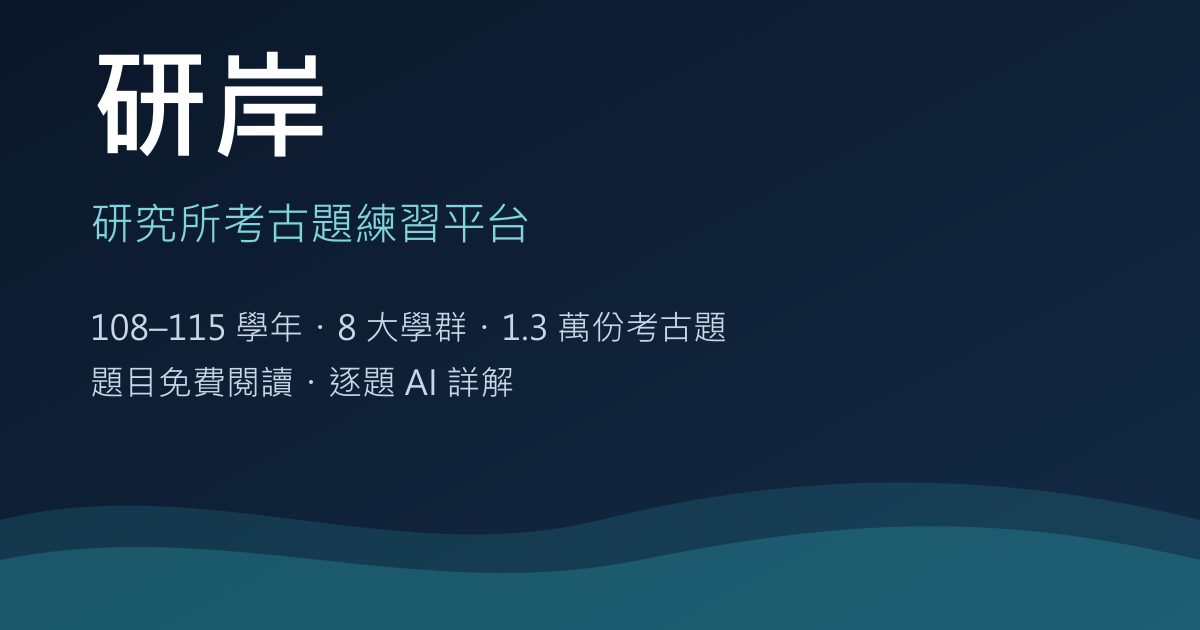
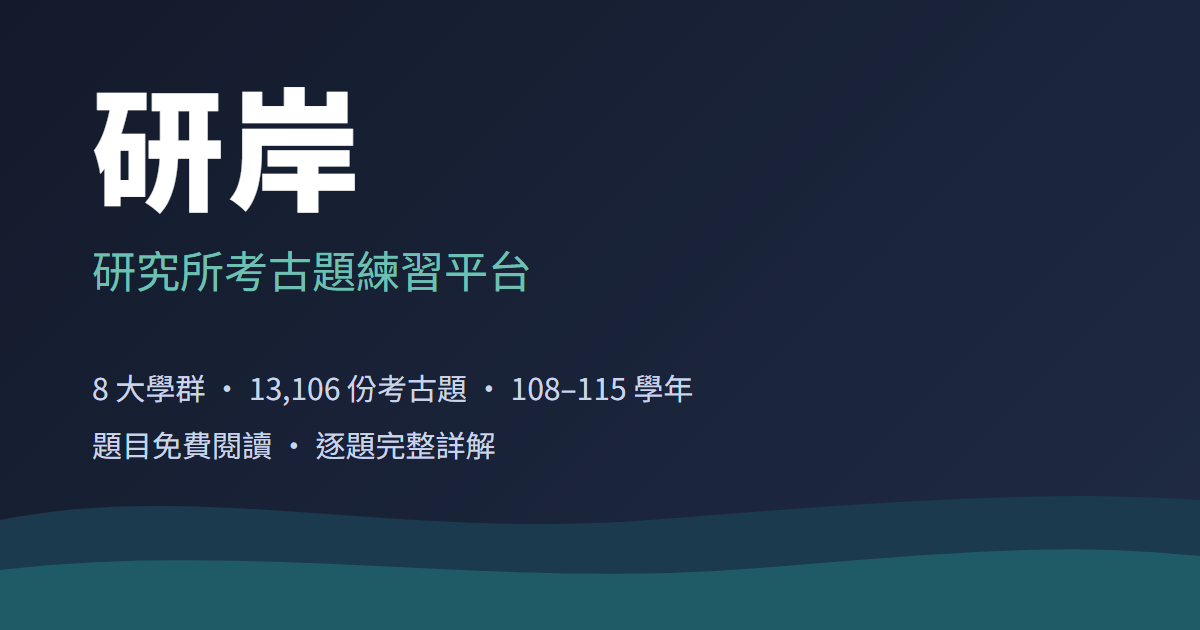
新增「冷門考科也找得到」
搜尋框打冷門科目名稱也有考古題，附幾個實際搜尋得到的科目連結。
研岸的分享預覽圖改成「逐題完整詳解」，與 examshore.com 用語一致。

diff --git a/index.html b/index.html
@@ -115,6 +115,11 @@
   .cell.big{grid-row:span 2}
   .cell.big img,.cell.search img{border-bottom:1px solid var(--line)}
   .cell.tips{background:var(--sea-soft);border-color:transparent}
+  .rare{margin-top:22px;border:1px solid var(--line);border-radius:16px;background:var(--surface);padding:26px 28px;
+    display:grid;grid-template-columns:5fr 7fr;gap:28px;align-items:center}
+  .rare p{margin-top:8px;color:var(--text-2)}
+  .rare .pills{margin-top:0}
+  @media (max-width:720px){.rare{grid-template-columns:1fr;gap:18px;padding:22px}}
   .tips ul{list-style:none;margin-top:12px;display:grid;gap:10px}
   .tips li{padding-left:18px;position:relative;color:var(--text-2)}
   .tips li::before{content:"";position:absolute;left:0;top:.72em;width:8px;height:2px;background:var(--sea-strong)}
@@ -328,6 +333,20 @@
             <li>通訊、通信、電信會互相找到；全部符合的沒有時，會列出部分符合的結果。</li>
           </ul>
         </div>
+      </div>
+    </div>
+    <div class="rare">
+      <div>
+        <h3>冷門考科也找得到</h3>
+        <p>研岸收錄上千個考科，不只熱門的微積分、計算機概論。補習班不開課、書店找不到考古題的冷門科目，搜尋框打科目名稱就有，每題一樣附詳解。</p>
+      </div>
+      <div class="pills">
+        <a class="pill" href="https://grad.examshore.com/exams?q=牙周病學">牙周病學</a>
+        <a class="pill" href="https://grad.examshore.com/exams?q=獸醫流行病學">獸醫流行病學</a>
+        <a class="pill" href="https://grad.examshore.com/exams?q=水產養殖學">水產養殖學</a>
+        <a class="pill" href="https://grad.examshore.com/exams?q=海洋物理學">海洋物理學</a>
+        <a class="pill" href="https://grad.examshore.com/exams?q=西洋基礎樂理">採譜分析與西洋基礎樂理</a>
+        <a class="pill" href="https://grad.examshore.com/exams?q=地形學">地形學與地景保育</a>
       </div>
     </div>
   </div>

diff --git a/README.md b/README.md
@@ -22,6 +22,9 @@
 
 ![搜尋「台大通訊」找到 32 份試題](images/search.webp)
 
+**冷門考科也找得到**：研岸收錄上千個考科，牙周病學、獸醫流行病學、水產養殖學、海洋物理學、地形學與地景保育這類補習班不開課的科目，
+搜尋框打科目名稱就有，每題一樣附詳解。
+
 ### 先寫，再看詳解
 
 - 整份考卷在同一頁，上方的題號列可以一鍵跳題，每題標示配分。
